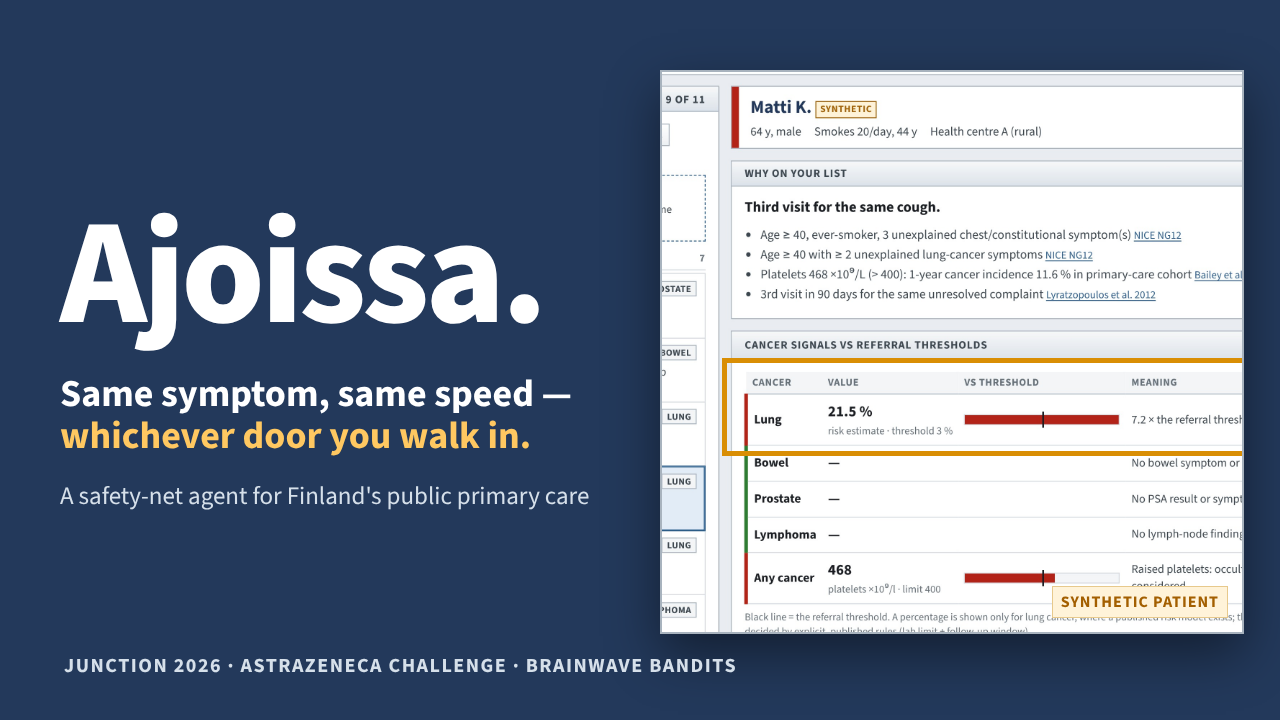
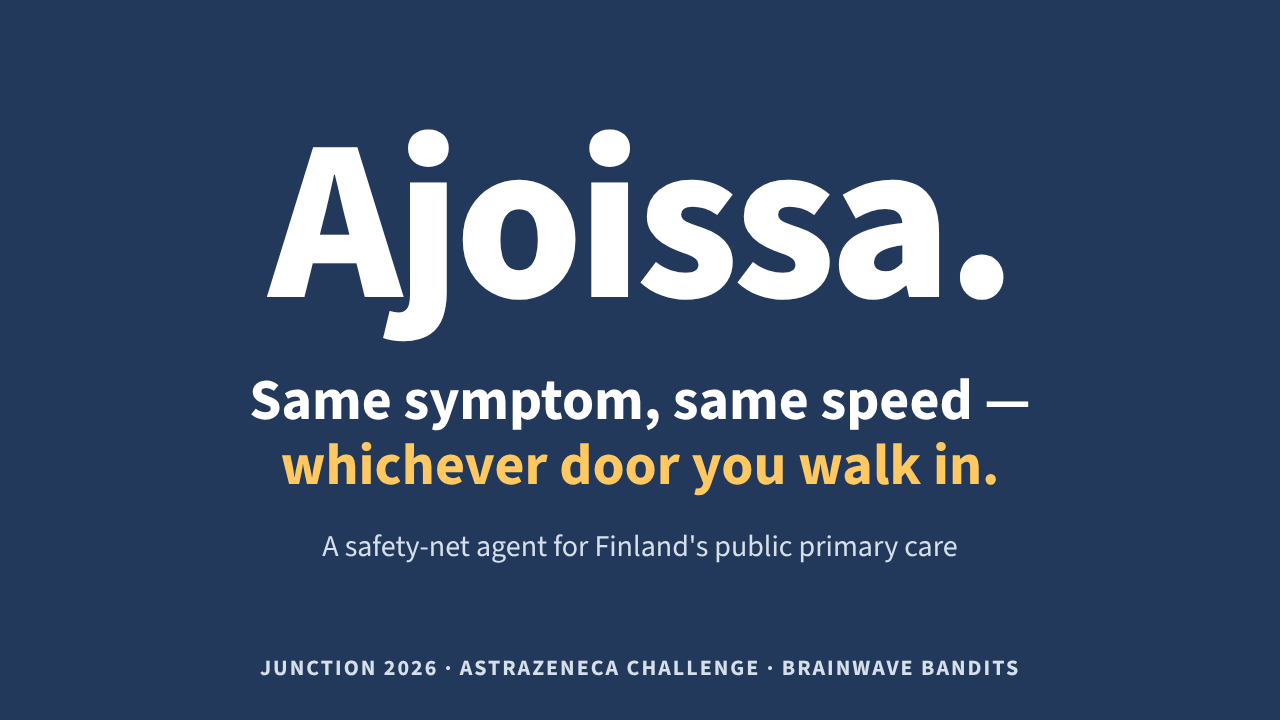
Thumbnail: text only, centred
Claude-Session: https://claude.ai/code/session_01AsaNd79UXqYpVKSFDadoua

diff --git a/overnight/video/thumb.html b/overnight/video/thumb.html
@@ -1,33 +1,21 @@
 <!doctype html>
 <html><head><meta charset="utf-8">
-<!-- YouTube thumbnail 1280×720 (render: python3 thumb.py). Uses assets/st_matti.jpg from capture.py. -->
+<!-- YouTube thumbnail 1280×720, text only (render: python3 thumb.py) -->
 <style>
 @font-face{font-family:'SS3';src:url(../../app/fonts/source-sans-3-latin-wght-normal.woff2);font-weight:200 900}
 @font-face{font-family:'SS3';src:url(../../app/fonts/source-sans-3-latin-ext-wght-normal.woff2);font-weight:200 900;unicode-range:U+0100-024F}
 html,body{margin:0;width:1280px;height:720px;overflow:hidden;background:#23395B;font-family:SS3,sans-serif;color:#fff}
-.shot{position:absolute;left:660px;top:70px;width:580px;height:560px;overflow:hidden;border:2px solid #A8B3BE;box-shadow:0 20px 50px rgba(0,0,0,.45);background:#E9EDF1}
-.shot img{position:absolute;width:1440px;left:-230px;top:-150px;transform-origin:0 0;transform:scale(0.9)}
-.spot{position:absolute;outline:5px solid #D98E04;box-shadow:0 0 0 5px #fff}
-.l{position:absolute;left:60px;top:0;bottom:0;width:570px;display:flex;flex-direction:column;justify-content:center}
-.w{font-size:150px;font-weight:800;letter-spacing:-4px;line-height:.9}
-.t{font-size:38px;font-weight:700;line-height:1.12;margin-top:30px}
+.c{position:absolute;inset:0;display:flex;flex-direction:column;justify-content:center;align-items:center;text-align:center;padding-bottom:30px}
+.w{font-size:230px;font-weight:800;letter-spacing:-6px;line-height:.9}
+.t{font-size:58px;font-weight:700;line-height:1.12;margin-top:40px}
 .t span{color:#FFC861}
-.s{font-size:25px;color:#D6E0EA;margin-top:22px;line-height:1.3}
-.chip{position:absolute;left:64px;bottom:40px;font-size:20px;font-weight:700;letter-spacing:1.5px;color:#D6E0EA;text-transform:uppercase}
-.tag{position:absolute;right:14px;bottom:14px;font-size:16px;font-weight:700;letter-spacing:1px;color:#A35F00;background:#FFF3D9;border:1px solid #E7C98C;padding:4px 8px}
+.s{font-size:30px;color:#D6E0EA;margin-top:26px}
+.chip{position:absolute;left:0;right:0;bottom:36px;text-align:center;font-size:22px;font-weight:700;letter-spacing:2px;color:#D6E0EA;text-transform:uppercase}
 </style></head><body>
-<div class="shot"><img src="assets/st_matti.jpg"><div class="spot" id="sp"></div><div class="tag">SYNTHETIC PATIENT</div></div>
-<div class="l">
+<div class="c">
   <div class="w">Ajoissa.</div>
   <div class="t">Same symptom, same speed —<br><span>whichever door you walk in.</span></div>
   <div class="s">A safety-net agent for Finland's public primary care</div>
 </div>
 <div class="chip">Junction 2026 · AstraZeneca challenge · Brainwave Bandits</div>
-<script src="assets/boxes.js"></script>
-<script>
-// highlight the risk row (21.5 % vs 3 % threshold) on the screenshot
-const b=BOXES.states.st_matti.thr, k=0.9, ox=-230, oy=-150;
-const sp=document.getElementById('sp');
-sp.style.left=(ox+(b[0]-4)*k)+'px'; sp.style.top=(oy+(b[1]+36)*k)+'px'; sp.style.width=((b[2]+8)*k)+'px'; sp.style.height=(98*k)+'px';
-</script>
 </body></html>
